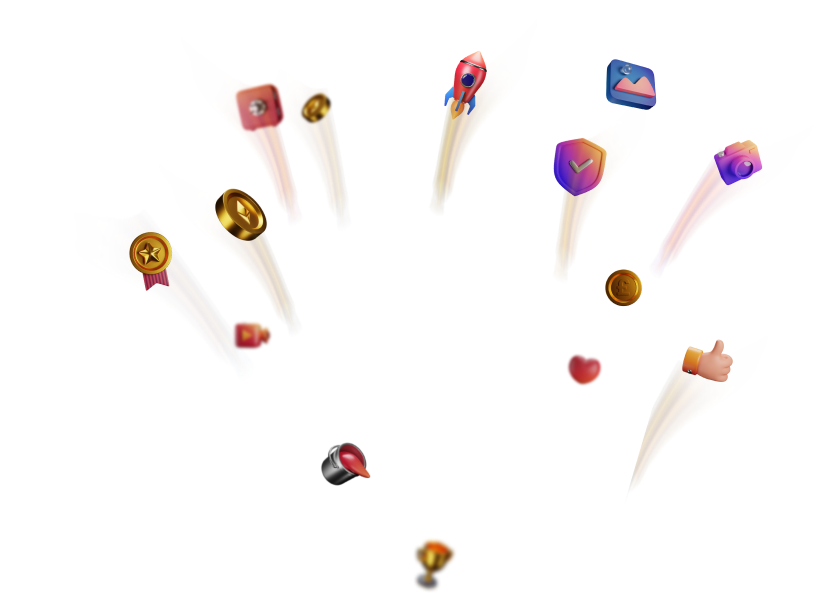
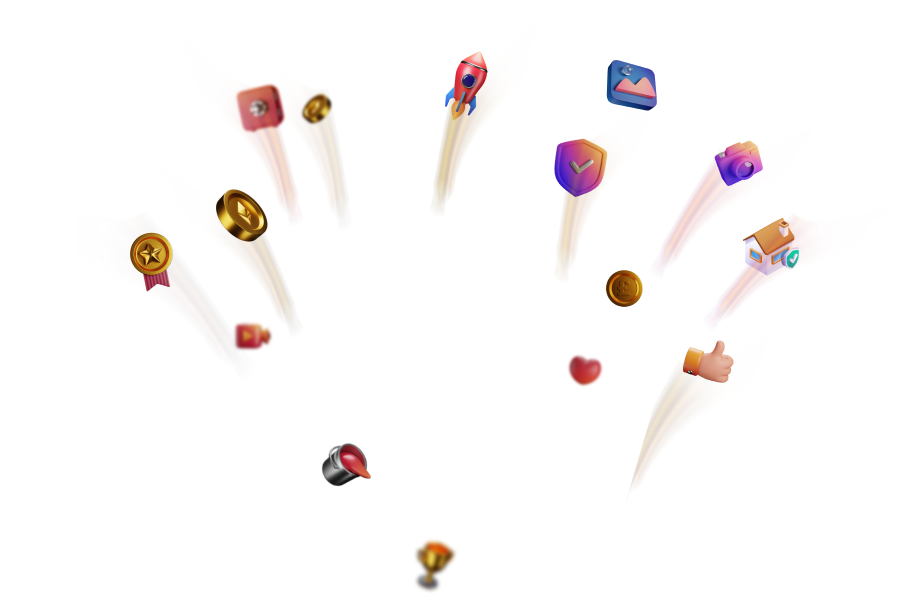
update

diff --git a/src/app/pages/dashboard/dashboard.component.scss b/src/app/pages/dashboard/dashboard.component.scss
@@ -8,11 +8,21 @@
     display: flex;
     // align-items: center;
     position: relative;
+    padding-bottom: 0;
 }
 
-.section-2 {
-    img {
+.img-bannner {
+    position: relative;
+    mix-blend-mode: screen;
+    .img-main {
         mix-blend-mode: screen;
+        margin-top: 50px;
+    }
+    .img-animation {
+        position: absolute;
+        top: 0;
+        left: -69px;
+        animation: bonben1 5s linear 2s infinite reverse;
     }
 }
 
@@ -26,14 +36,18 @@ img {
     padding-bottom: 30px;
 }
 
-.img-bannner {
-    position: relative;
-    .img-1 {
-        position: absolute;
-        left: 160px;
-        top: 200px;
-        z-index: -1;
-        animation: bonben 10s linear 2s infinite reverse;
+@keyframes bonben1 {
+    0% {
+        // opacity: 0.1;
+        transform: translateY(0);
+    }
+    50% {
+        // opacity: 0.3;
+        transform: translateY(2%);
+    }
+    100% {
+        // opacity: 0.5;
+        transform: translateY(0);
     }
 }
 

diff --git a/src/app/pages/dashboard/dashboard.component.html b/src/app/pages/dashboard/dashboard.component.html
@@ -3,7 +3,8 @@
         <div class="row">
             <div class="col-md-5 col-12">
                 <div class="img-bannner">
-                    <img src="../../assets/img/human 1.png" alt="" class="img-1">
+                    <img src="../../assets/img/galaxy 1.png" alt="" class="img-main">
+                    <img src="../../assets/img/Group 186.png" alt="" class="img-animation">
                 </div>
             </div>
             <div class="col-md-7 col-12">

diff --git a/src/styles.scss b/src/styles.scss
@@ -73,7 +73,7 @@ html:not([data-scroll="0"]) {
 }
 
 body {
-    background-image: url("./assets/img/background.png");
+    background-image: url("./assets/img/bg_1920_01.png");
     background-color: #000;
     background-repeat: no-repeat;
     background-size: 1920px;
